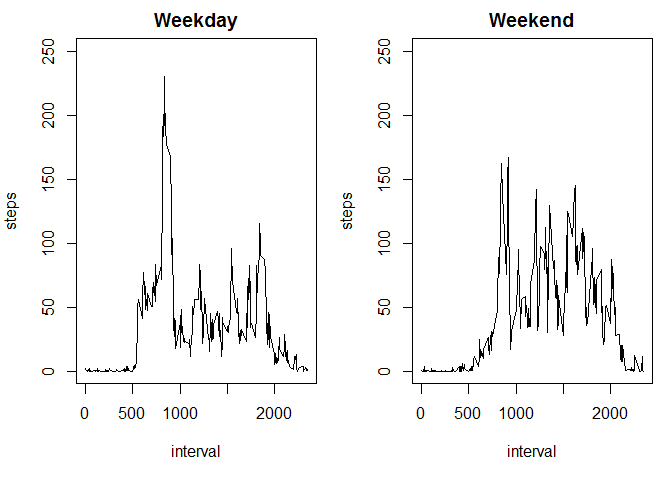
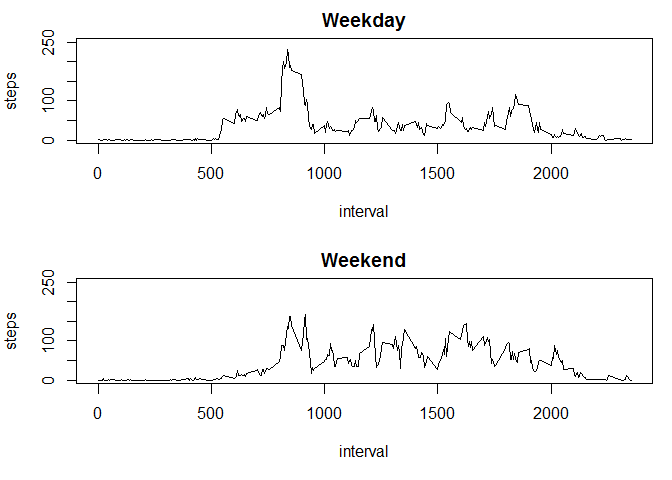
changed layout of panel plot from side-by-side to top-bottom

diff --git a/PA1_final_DNOLAN.html b/PA1_final_DNOLAN.html
@@ -220,7 +220,7 @@ medSteps.delta   &lt;- medSteps.imputed - medSteps</code></pre>
 <pre class="r"><code>weekdays.list &lt;- c(&quot;Monday&quot;,&quot;Tuesday&quot;,&quot;Wednesday&quot;,&quot;Thursday&quot;,&quot;Friday&quot;)
 imputed &lt;- mutate(imputed, day.type = ifelse(weekdays(date) %in% weekdays.list, &quot;Weekday&quot;, &quot;Weekend&quot;))</code></pre>
 <p>Now we are in a position to set up a panel plot with two time series, one for Weekdays and the other for Weekends.</p>
-<pre class="r"><code>par(mfrow = c(1,2), mar = c(5,4,2,1))
+<pre class="r"><code>par(mfrow = c(2,1), mar = c(5,4,2,1))
 with(
   subset(imputed, day.type == &quot;Weekday&quot;) %&gt;% group_by(interval) %&gt;% summarize(steps = mean(steps)),
   plot(interval,
@@ -234,7 +234,7 @@ with(
        type = &quot;l&quot;,
        ylim = c(0,250),
        main = &quot;Weekend&quot;))</code></pre>
[2 lines of base64/hex data omitted]
 <p>The weekday activity pattern is sedentary throughout the middle of the day with a large spike around 8:30am, presumably a morning commute or workout. The weekend pattern is stedily higher throughout the day – and appears to continue later into the night – but without such a significant spike in the morning.</p>
 </div>
 

diff --git a/PA1_final_DNOLAN.md b/PA1_final_DNOLAN.md
@@ -1,17 +1,13 @@
----
-title: "Reproducible Research: Peer Assessment 1"
-author: Daniel Nolan
-output: 
-  html_document:
-    keep_md: true
----
+# Reproducible Research: Peer Assessment 1
+Daniel Nolan  
 
 
 ## Loading and preprocessing the data
 
 The following code is used to download and unzip the file, then store the dataset in a data frame called `activity`.
 
-```{r}
+
+```r
 # download the data using the url provided, and store the dataset in the variable 'activity'
 url <- "https://d396qusza40orc.cloudfront.net/repdata%2Fdata%2Factivity.zip"
 temp <- tempfile()
@@ -25,54 +21,78 @@ activity$date <- as.Date(activity$date)
 
 Observe the structure of the `activity` data frame:
 
-```{r}
+
+```r
 str(activity)
+```
+
+```
+## 'data.frame':	17568 obs. of  3 variables:
+##  $ steps   : int  NA NA NA NA NA NA NA NA NA NA ...
+##  $ date    : Date, format: "2012-10-01" "2012-10-01" ...
+##  $ interval: int  0 5 10 15 20 25 30 35 40 45 ...
 ```
 
 ## What is mean total number of steps taken per day?
 
 The `dplyr` package will be used throughout the analysis.
 
-```{r, message=FALSE}
+
+```r
 # load the dplyr package
 library(dplyr)
 ```
 
 First, use the `dplyr` functions to summarize by date:
 
-```{r, message=FALSE}
+
+```r
 # summarize data by day
 steps.byDay <- filter(activity, !is.na(steps)) %>% group_by(date) %>% summarize(steps = sum(steps))
 ```
 
 Next, create a histogram of steps per day:
 
-```{r, echo=TRUE, message=FALSE}
+
+```r
 # create histogram of steps by day
 hist(steps.byDay$steps,
      main="Histogram of Steps per Day (NAs removed)",
      xlab="Steps per Day")
 ```
 
+![](PA1_final_DNOLAN_files/figure-html/unnamed-chunk-5-1.png)
+
 In summary, the mean number of steps per day, removing NAs, is given by:
 
-```{r, echo=TRUE, message=FALSE}
+
+```r
 avgSteps <- mean(steps.byDay$steps)
 avgSteps
 ```
 
+```
+## [1] 10766.19
+```
+
 And the median, again removing NAs, is given by:
 
-```{r, echo=TRUE, message=FALSE}
+
+```r
 medSteps <- median(steps.byDay$steps)
 medSteps
+```
+
+```
+## [1] 10765
 ```
 
 ## What is the average daily activity pattern?
 
 The average daily activity pattern can be visualized by first summarizing by 5-minute interval, then plotting a time series as below.
 
-```{r, echo=TRUE, message=FALSE}
+
+```r
 # summarize by 5-minute interval
 steps.byInterval <- filter(activity, !is.na(steps)) %>% group_by(interval) %>% summarize(steps = mean(steps))
 
@@ -88,18 +108,30 @@ hour.markers <- seq(1, n, by = 12)
 axis(1, at = hour.markers, labels = steps.byInterval$interval[hour.markers])
 ```
 
+![](PA1_final_DNOLAN_files/figure-html/unnamed-chunk-8-1.png)
+
 The 5-minute interval associated with the maximum average number of steps can be found as follows:
 
-```{r, echo=TRUE, message=FALSE}
+
+```r
 M <- max(steps.byInterval$steps) # this is the maximum average number of steps
 select(filter(steps.byInterval, steps == M), interval) # this is the interval corresponding to the max
+```
+
+```
+## Source: local data frame [1 x 1]
+## 
+##   interval
+##      (int)
+## 1      835
 ```
 
 ## Imputing missing values
 
 Our approach will be to replace NAs with the mean for the given 5-minute interval. This can be carried out using the `left_join()` function of the `dplyr` package.
 
-```{r, echo=TRUE, message=FALSE}
+
+```r
 # use left_join() to "look up" imputed values
 impute <- filter(activity, is.na(steps)) %>% left_join(steps.byInterval, by = "interval") %>% select(steps = steps.y, date, interval) 
 
@@ -109,7 +141,8 @@ imputed = filter(activity, !is.na(steps)) %>% rbind(impute)
 
 Next we update the histogram with the addition of the imputed values:
 
-```{r, echo=TRUE, message=FALSE}
+
+```r
 # summarize data by day, with imputed values
 imputed.byDay <- group_by(imputed, date) %>% summarize(steps = sum(steps))
 
@@ -119,19 +152,48 @@ hist(imputed.byDay$steps,
      xlab="Steps per Day")
 ```
 
+![](PA1_final_DNOLAN_files/figure-html/unnamed-chunk-11-1.png)
+
 The new mean and median, as well as their differnces vs. the original values (with NAs removed, not replaced), are:
 
-```{r, echo=TRUE, message=FALSE}
+
+```r
 avgSteps.imputed <- mean(imputed.byDay$steps)
 medSteps.imputed <- median(imputed.byDay$steps)
 avgSteps.delta   <- avgSteps.imputed - avgSteps
 medSteps.delta   <- medSteps.imputed - medSteps
 ```
-```{r, echo=TRUE, message=FALSE}
+
+```r
 avgSteps.imputed
+```
+
+```
+## [1] 10766.19
+```
+
+```r
 avgSteps.delta
+```
+
+```
+## [1] 0
+```
+
+```r
 medSteps.imputed
+```
+
+```
+## [1] 10766.19
+```
+
+```r
 medSteps.delta
+```
+
+```
+## [1] 1.188679
 ```
 
 As the reader can see, the effect on the mean is zero, which makes sense because because we replaced NAs with the means for their respective 5-minute intervals. The effect on the median is minor, which also makes sense because the distribution is not particularly skewed.
@@ -140,14 +202,16 @@ As the reader can see, the effect on the mean is zero, which makes sense because
 
 To examine the differnce in daily activity pattern for weekdays vs. weekends, we first classify every row as being a 'Weekday' or a 'Weekend'.
 
-```{r, echo=TRUE, message=FALSE}
+
+```r
 weekdays.list <- c("Monday","Tuesday","Wednesday","Thursday","Friday")
 imputed <- mutate(imputed, day.type = ifelse(weekdays(date) %in% weekdays.list, "Weekday", "Weekend"))
 ```
 
 Now we are in a position to set up a panel plot with two time series, one for Weekdays and the other for Weekends.
 
-```{r, echo=TRUE, message=FALSE}
+
+```r
 par(mfrow = c(2,1), mar = c(5,4,2,1))
 with(
   subset(imputed, day.type == "Weekday") %>% group_by(interval) %>% summarize(steps = mean(steps)),
@@ -163,5 +227,7 @@ with(
        ylim = c(0,250),
        main = "Weekend"))
 ```
+
+![](PA1_final_DNOLAN_files/figure-html/unnamed-chunk-15-1.png)
 
 The weekday activity pattern is sedentary throughout the middle of the day with a large spike around 8:30am, presumably a morning commute or workout. The weekend pattern is stedily higher throughout the day -- and appears to continue later into the night -- but without such a significant spike in the morning.
